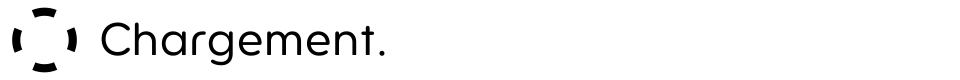
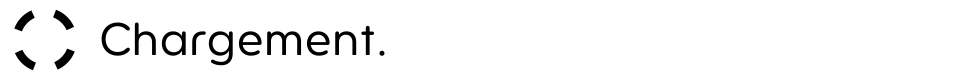
Changement orientation barre chargement, début correction boss long

Changed region(s): [[0.0, 0.075, 0.0938, 0.925]]

diff --git a/core/scene1.py b/core/scene1.py
@@ -262,7 +262,7 @@ def creerBoss(temps, typeelement) :
         {"anim1" : [PurePath("images/level/boss.png")]},
         {"anim1" : [False, 5]},
         "anim1",
-        tags=["element", "boss", "long", str(temps[1])]
+        tags=["element", "boss", "bosslong", str(temps[1])]
         )
         calques[3]["boss"+str(temps[0])] = [(temps[0] * 600 / 1000) + 420, 100]
 
@@ -1084,7 +1084,7 @@ def init():
 
 
 def loopevent(event):
-    global calques, initcalques, camera, fond, pause, gameovertimer, pos_pers, gameoverbool
+    global calques, initcalques, camera, fond, pause, gameovertimer, pos_pers, gameoverbool, longboss
     if event.type == KEYDOWN and event.key in game.boutons["haut"] and gameovertimer == 0 and objects["curseur"].visible == False and not pause : # and levelelements["phase"][phaseindex-1][0] == "phase1":
         pos_pers = 0
         detectelements = sorted([element for element in game.displaylist if element in objects and isinstance(objects[element], Actif) and "elementup" in objects[element].tags and objects[element].visible and "touche" not in objects[element].tags and (120 <= game.displaylist[element].left <= 220)], key=lambda x : calques[3][x][0])
@@ -1114,7 +1114,28 @@ def loopevent(event):
                 stats_perso["greatphase1"] += 1
                 stats_perso["compteurcombophase1"] += 1
                 stats_perso["combophase1"] = max(stats_perso["compteurcombophase1"], stats_perso["combophase1"])
+        detectboss = sorted([element for element in game.displaylist if element in objects and isinstance(objects[element], Actif) and "boss" in objects[element].tags and objects[element].visible and "touche" not in objects[element].tags and (120 <= game.displaylist[element].left <= 220)], key=lambda x : calques[3][x][0])
+        if detectboss:
+            elementhit = detectboss[0]
+            if 130 <= game.displaylist[elementhit].left < 185:
+                print("perfect" + elementhit)
+                objects[elementhit].tags.insert(0, "touche")
+                stats_perso["score"] += 2000
+                stats_perso["perfectphase1"] += 1
+                stats_perso["compteurcombophase1"] += 1
+                stats_perso["combophase1"] = max(stats_perso["compteurcombophase1"], stats_perso["combophase1"])
                 
+            elif game.displaylist[elementhit].left < 230:
+                print("great" + elementhit)
+                objects[elementhit].tags.insert(0, "touche")
+                stats_perso["score"] += 1000
+                stats_perso["greatphase1"] += 1
+                stats_perso["compteurcombophase1"] += 1
+                stats_perso["combophase1"] = max(stats_perso["compteurcombophase1"], stats_perso["combophase1"])
+
+            if "bosslong" in objects[elementhit].tags:
+                longboss = True
+
 
     if event.type == KEYUP and event.key in game.boutons["haut"] and gameovertimer == 0 and objects["curseur"].visible == False and not pause and levelelements["phase"][phaseindex-1][0] == "phase1":
         if stats_perso["inLongUp"]:
@@ -1128,10 +1149,6 @@ def loopevent(event):
         print("no long up")
         stats_perso["inLongUp"] = False
                
-        
-        
-        
-
     if event.type == KEYDOWN and event.key in game.boutons["bas"] and gameovertimer == 0 and objects["curseur"].visible == False and not pause and levelelements["phase"][phaseindex-1][0] == "phase1":
         pos_pers = 1
         detectelements = sorted([element for element in game.displaylist if element in objects and isinstance(objects[element], Actif) and "elementdown" in objects[element].tags and "touche" not in objects[element].tags and objects[element].visible and (120 <= game.displaylist[element].left <= 220)], key=lambda x : calques[3][x][0])
@@ -1161,7 +1178,27 @@ def loopevent(event):
                 stats_perso["greatphase1"] += 1
                 stats_perso["compteurcombophase1"] += 1
                 stats_perso["combophase1"] = max(stats_perso["compteurcombophase1"], stats_perso["combophase1"])
+        detectboss = sorted([element for element in game.displaylist if element in objects and isinstance(objects[element], Actif) and "boss" in objects[element].tags and objects[element].visible and "touche" not in objects[element].tags and (120 <= game.displaylist[element].left <= 220)], key=lambda x : calques[3][x][0])
+        if detectboss:
+            elementhit = detectboss[0]
+            if 130 <= game.displaylist[elementhit].left < 185:
+                print("perfect" + elementhit)
+                objects[elementhit].tags.insert(0, "touche")
+                stats_perso["score"] += 2000
+                stats_perso["perfectphase1"] += 1
+                stats_perso["compteurcombophase1"] += 1
+                stats_perso["combophase1"] = max(stats_perso["compteurcombophase1"], stats_perso["combophase1"])
                 
+            elif game.displaylist[elementhit].left < 230:
+                print("great" + elementhit)
+                objects[elementhit].tags.insert(0, "touche")
+                stats_perso["score"] += 1000
+                stats_perso["greatphase1"] += 1
+                stats_perso["compteurcombophase1"] += 1
+                stats_perso["combophase1"] = max(stats_perso["compteurcombophase1"], stats_perso["combophase1"])
+
+            if "bosslong" in objects[elementhit].tags:
+                longboss = True       
 
     if event.type == KEYUP and event.key in game.boutons["bas"] and gameovertimer == 0 and objects["curseur"].visible == False and not pause and levelelements["phase"][phaseindex-1][0] == "phase1":
         if stats_perso["inLongDown"]:
@@ -1260,7 +1297,7 @@ def loopbeforeupdate():
             stats_perso["compteurcombophase2"] = 0
             stats_perso["combophase1"] = max(stats_perso["compteurcombophase1"], stats_perso["combophase1"])
             stats_perso["missphase1"] += 1
-        if element in objects and isinstance(objects[element], Actif) and "end" in objects[element].tags and "touche" not in objects[element].tags and game.displaylist[element].left < 120:
+        if element in objects and isinstance(objects[element], Actif) and "end" in objects[element].tags and "touche" not in objects[element].tags and 0 < game.displaylist[element].left < 120:
             if "up" in objects[element].tags and stats_perso["inLongUp"]:
                 stats_perso["inLongUp"] = False
                 objects[element].tags.insert(0, "touche")
@@ -1271,7 +1308,7 @@ def loopbeforeupdate():
                 print("no long down far")
         if element in objects and isinstance(objects[element], Actif) and "enemy" in objects[element].tags and "touche" not in objects[element].tags and "long" not in objects[element].tags and game.displaylist[element].colliderect(game.displaylist["pers1"]):
             stats_perso["pv"] -= 20
-            if stats_perso["pv"] < 0:
+            if stats_perso["pv"] <= 0:
                 stats_perso["pv"] = 0
                 gameoverbool = True
             objects[element].tags.insert(0, "touche")
@@ -1313,6 +1350,10 @@ def loopbeforeupdate():
         pygame.mouse.set_pos([480, 270])
     for phaseindex in range(len(levelelements["phase"])):
         if pygame.mixer.music.get_pos() < levelelements["phase"][phaseindex][1]:
+            if levelelements["phase"][phaseindex-1][0] == "phase0":
+                game.scenecourante = "victoire"
+                camera = [0, 0]
+                gameovertimer = 0
             if levelelements["phase"][phaseindex-1][0] == "phase1":
                 objects["portee_haut"].visible = False
                 objects["portee_bas"].visible = False
@@ -1367,6 +1408,10 @@ def loopbeforeupdate():
                 pygame.mouse.set_visible(True)
             break
         elif phaseindex == len(levelelements["phase"])-1:
+            if levelelements["phase"][phaseindex][0] == "phase0":
+                game.scenecourante = "victoire"
+                camera = [0, 0]
+                gameovertimer = 0
             if levelelements["phase"][phaseindex][0] == "phase1":
                 objects["portee_haut"].visible = False
                 objects["portee_bas"].visible = False
@@ -1490,15 +1535,18 @@ def loopafterupdate():
         if element in objects and isinstance(objects[element], Actif) and "boss" in objects[element].tags:
             if "hit" in objects[element].tags:
                 calques[3][element][0] = ((float(element[4:]))*600/1000) - ((pygame.mixer.music.get_pos()-float(element[4:]))) + 90
-            elif "long" in objects[element].tags:
+            elif "bosslong" in objects[element].tags:
                 if pygame.mixer.music.get_pos()-float(element[4:]) < 0:
                     calques[3][element][0] = ((float(element[4:]))*600/1000) - ((pygame.mixer.music.get_pos()-float(element[4:]))) + 90
-                elif pygame.mixer.music.get_pos()-float(objects[element].tags[-1]) < 0:
-                    longboss = True
+                elif pygame.mixer.music.get_pos()-float(objects[element].tags[-1]) < 0 and longboss:
+                    print("dans le boss")
                     objects[element].suivreScene = True
                     calques[3][element][0] = 90
                 else:
-                    longboss = False
+                    if "finlong" not in objects[element].tags:
+                        longboss = False
+                        objects[element].tags.insert(0, "finlong")
+                    print("sorti du boss")
                     objects[element].suivreScene = True
                     calques[3][element][0] -= 60
 

diff --git a/core/setup.py b/core/setup.py
@@ -18,5 +18,5 @@ setup(
     executables=[Executable(
         "mainloop.py", 
         base=base,
-        icon=PurePath())],
+        target_name="asrg")],
 )
